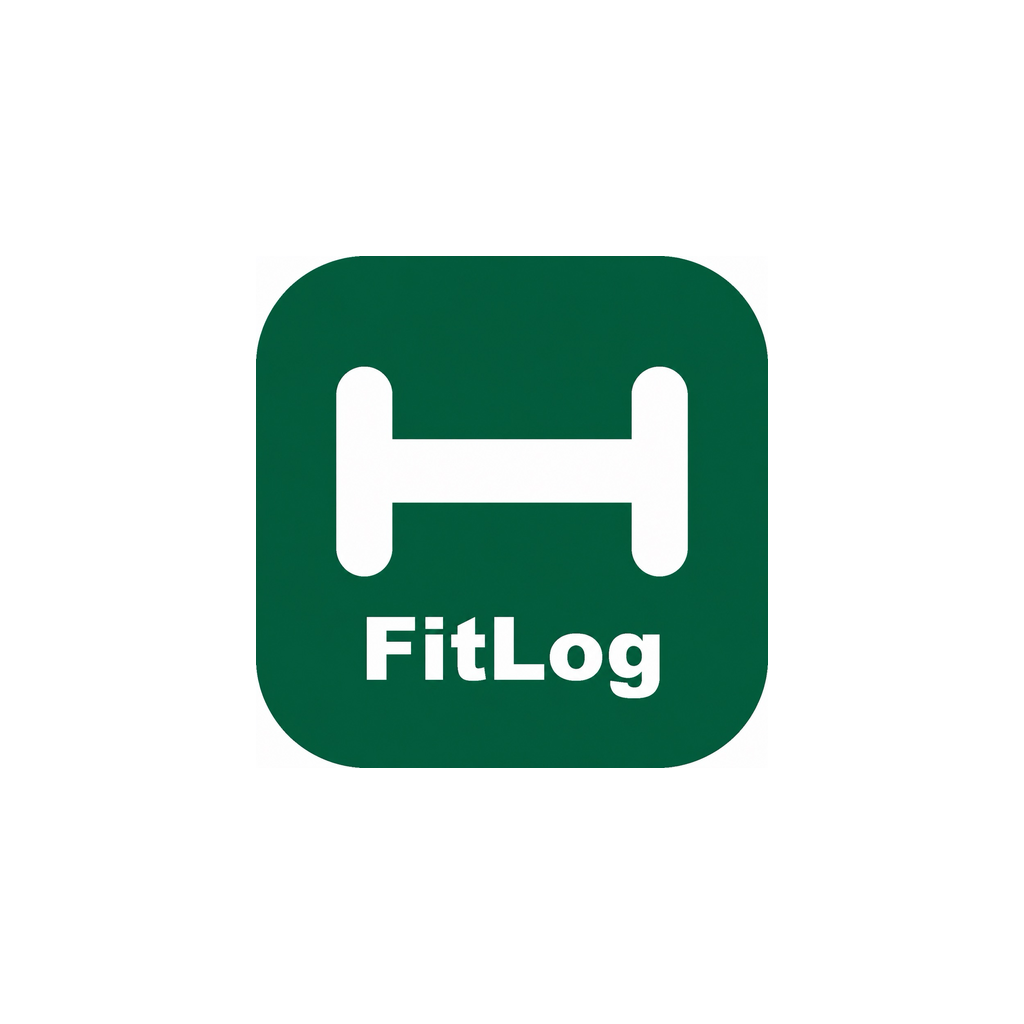
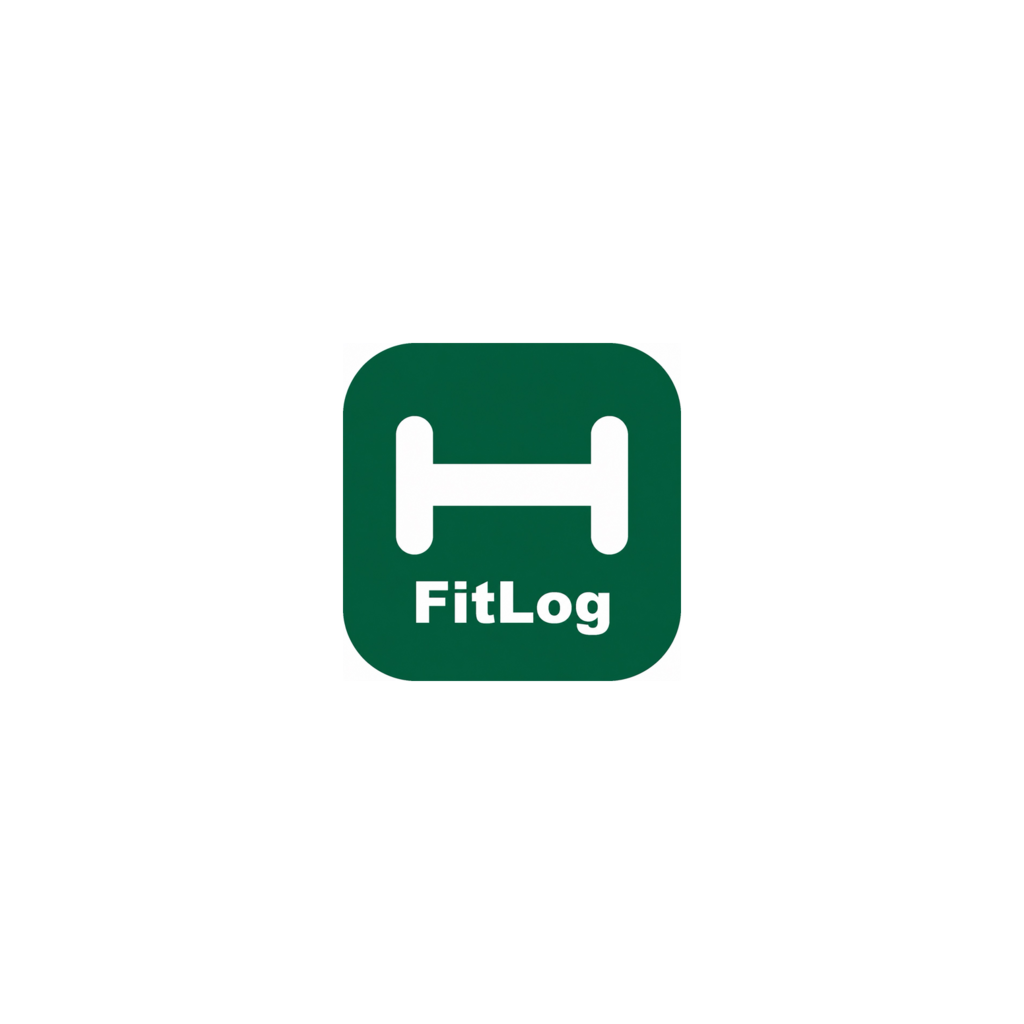
fix: 카카오 공유 에러 로그 추가, Android 아이콘 safe zone 패딩 적용
- 카카오 공유 실패 시 code/domain/message/userInfo Alert 표시
- android-icon-foreground 로고를 66% safe zone으로 축소 (잘림 방지)

Changed region(s): [[0.25, 0.25, 0.75, 0.75]]

diff --git a/frontend/app/(tabs)/trainer/home.tsx b/frontend/app/(tabs)/trainer/home.tsx
@@ -779,8 +779,9 @@ export default function TrainerHomeScreen() {
     const code = data?.trainerCode ?? "";
     const trainerName = data?.trainerName ?? "트레이너";
     const installUrl = Platform.OS === "ios" ? APP_STORE_URL : PLAY_STORE_URL;
+    console.log("[Kakao] shareTextTemplate 시작");
     try {
-      await shareTextTemplate({
+      const result = await shareTextTemplate({
         template: {
           text: `안녕하세요! ${trainerName} 트레이너입니다.\n\nFitLog 앱에서 아래 코드를 입력하면 바로 연결돼요!\n\n트레이너 코드: ${code}`,
           link: {
@@ -790,8 +791,17 @@ export default function TrainerHomeScreen() {
           buttonTitle: "FitLog 앱 설치하기",
         },
       });
+      console.log("[Kakao] 성공:", JSON.stringify(result));
     } catch (e: any) {
-      Alert.alert("카카오 공유 실패", `code: ${e?.code ?? "-"}\nmessage: ${e?.message ?? String(e)}`);
+      console.log("[Kakao] 실패 전체:", JSON.stringify(e));
+      console.log("[Kakao] code:", e?.code);
+      console.log("[Kakao] message:", e?.message);
+      console.log("[Kakao] domain:", e?.domain);
+      console.log("[Kakao] userInfo:", JSON.stringify(e?.userInfo));
+      Alert.alert(
+        "카카오 공유 실패",
+        `code: ${e?.code ?? "-"}\ndomain: ${e?.domain ?? "-"}\nmessage: ${e?.message ?? String(e)}\nuserInfo: ${JSON.stringify(e?.userInfo ?? {})}`,
+      );
     }
   };
 

diff --git a/frontend/app/(tabs)/trainer/member-detail.tsx b/frontend/app/(tabs)/trainer/member-detail.tsx
@@ -2661,8 +2661,10 @@ export default function MemberDetailScreen() {
         ? `https://fitlog.app/download?trainerCode=${encodeURIComponent(code)}`
         : "https://fitlog.app/download";
     setSmsPromptData((p) => ({ ...p, visible: false }));
+    console.log("[Kakao] shareTextTemplate 시작");
+    console.log("[Kakao] inviteUrl:", inviteUrl);
     try {
-      await KakaoShare.shareTextTemplate({
+      const result = await KakaoShare.shareTextTemplate({
         template: {
           text,
           link: {
@@ -2671,8 +2673,17 @@ export default function MemberDetailScreen() {
           },
         },
       });
+      console.log("[Kakao] 성공:", JSON.stringify(result));
     } catch (e: any) {
-      Alert.alert("카카오 공유 실패", `code: ${e?.code ?? "-"}\nmessage: ${e?.message ?? String(e)}`);
+      console.log("[Kakao] 실패 전체:", JSON.stringify(e));
+      console.log("[Kakao] code:", e?.code);
+      console.log("[Kakao] message:", e?.message);
+      console.log("[Kakao] domain:", e?.domain);
+      console.log("[Kakao] userInfo:", JSON.stringify(e?.userInfo));
+      Alert.alert(
+        "카카오 공유 실패",
+        `code: ${e?.code ?? "-"}\ndomain: ${e?.domain ?? "-"}\nmessage: ${e?.message ?? String(e)}\nuserInfo: ${JSON.stringify(e?.userInfo ?? {})}`,
+      );
     }
   };
 
